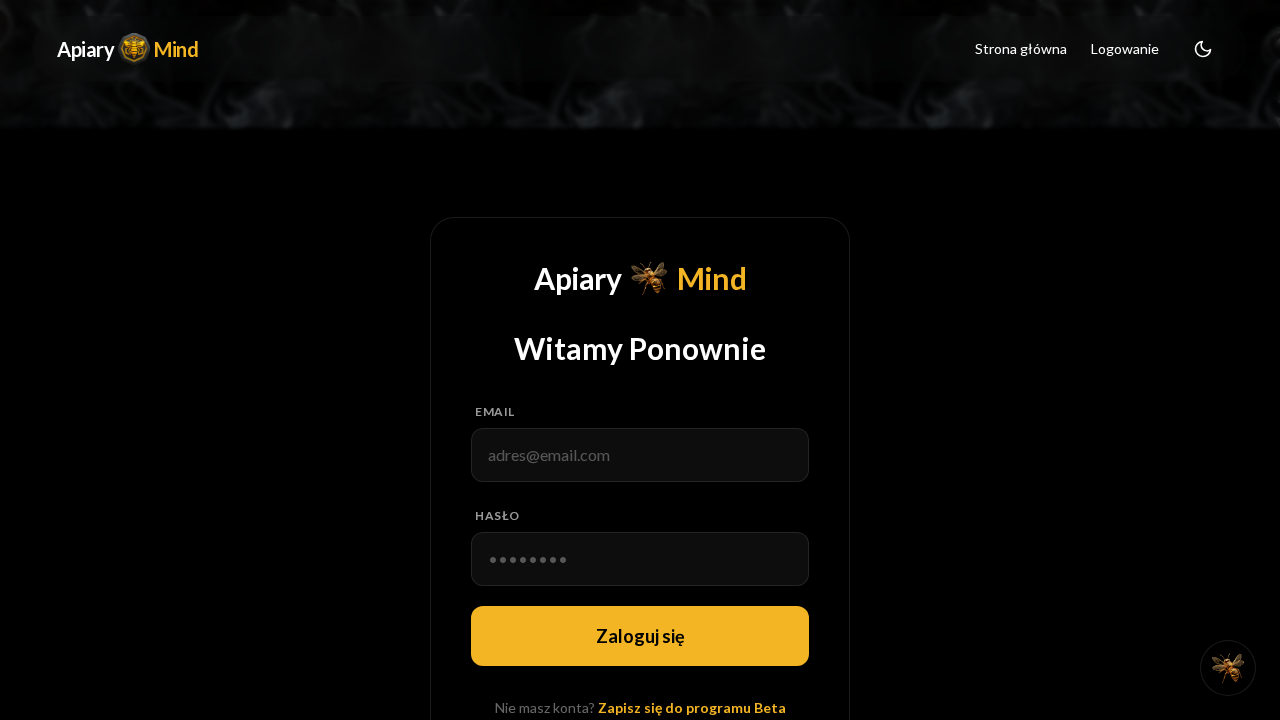
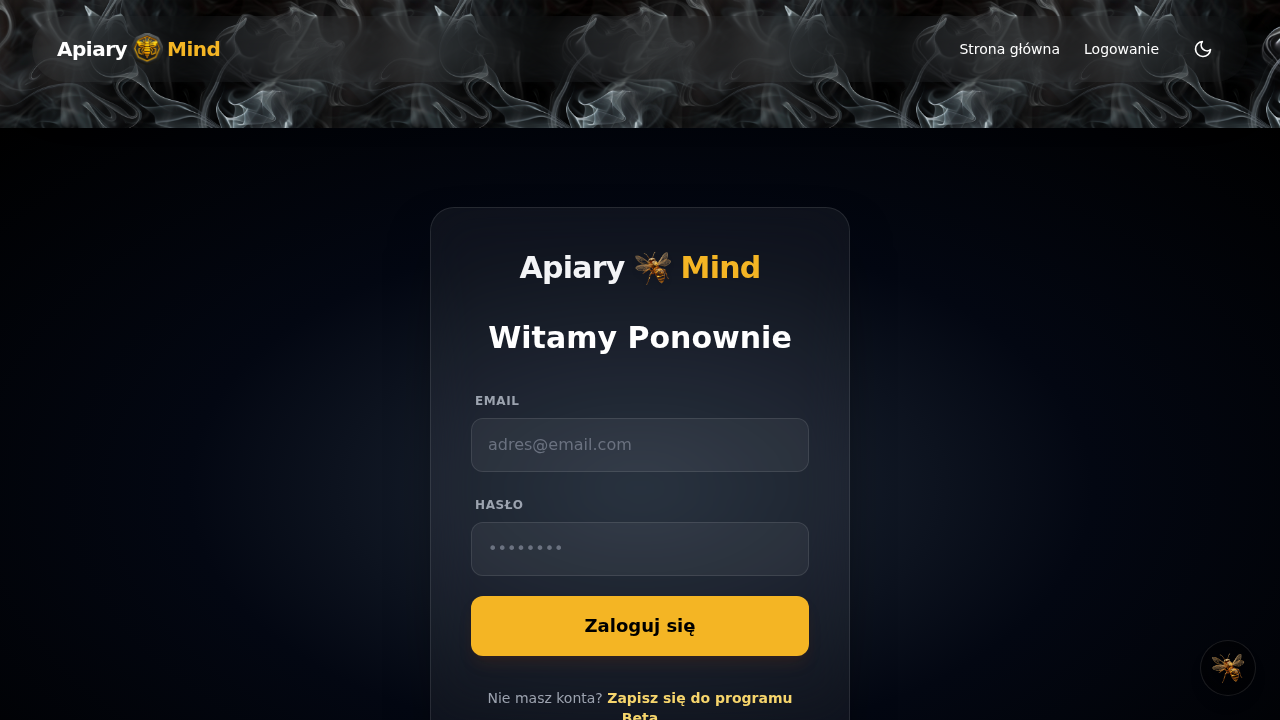
Fix Login Page Dark Mode visualization.
- Implemented CSS Radial Gradient for Dark Mode background ("Smoke/Fog" effect) instead of relying on a missing image.
- Updated Login Card to use correct glassmorphism styles (`dark:bg-white/5`, `backdrop-blur-xl`) and white borders (`dark:border-white/10`).
- Ensured all text and inputs are readable in Dark Mode (`text-gray-100`, `text-gray-400`).
- Kept the original Marble Texture for Light Mode.

diff --git a/app/login/page.tsx b/app/login/page.tsx
@@ -41,22 +41,27 @@ function LoginForm() {
   };
 
   return (
-    // TŁO: Marmur jako baza. W trybie dark dodajemy bg-black jako podkład pod overlay.
-    <div className="min-h-screen w-full flex items-center justify-center bg-[url('/assets/marble-texture.jpg')] bg-cover bg-center font-sans px-4 dark:bg-black">
+    // CONTAINER
+    // Light Mode: Marble texture background.
+    // Dark Mode: "Smoke/Fog" effect using Radial Gradient.
+    <div className="min-h-screen w-full flex items-center justify-center font-sans px-4
+                    bg-[url('/assets/marble-texture.jpg')] bg-cover bg-center
+                    dark:bg-[image:none] dark:bg-[radial-gradient(ellipse_at_center,_var(--tw-gradient-stops))] dark:from-gray-800 dark:via-gray-950 dark:to-black">
 
-      {/* OVERLAY: Jasny w Light Mode, Mocno przyciemniony w Dark Mode */}
-      <div className="absolute inset-0 bg-amber-50/30 dark:bg-black/70 backdrop-blur-[2px] transition-colors duration-500" />
+      {/* OVERLAY for Light Mode only (adds warmth to marble). Hidden in Dark Mode. */}
+      <div className="absolute inset-0 bg-amber-50/30 pointer-events-none dark:hidden" />
 
-      {/* KARTA: Białe szkło (Light) / Czarne szkło (Dark) */}
+      {/* KARTA */}
       <div className="relative w-full max-w-[420px]
-                      bg-white/80 dark:bg-black/60
-                      backdrop-blur-xl border border-white/40 dark:border-white/10
-                      shadow-2xl rounded-3xl p-8 md:p-10
+                      bg-white/80 backdrop-blur-xl border border-white/40 shadow-2xl rounded-3xl p-8 md:p-10
+
+                      dark:bg-white/5 dark:backdrop-blur-xl dark:border-white/10 dark:shadow-black/50
+
                       animate-in fade-in zoom-in-95 duration-300">
 
         {/* --- LOGO --- */}
         <div className="flex items-center justify-center gap-2 mb-8 select-none">
-            <span className="text-3xl font-bold text-amber-950 dark:text-white tracking-tight">Apiary</span>
+            <span className="text-3xl font-bold text-amber-950 dark:text-gray-100 tracking-tight">Apiary</span>
 
             <div className="w-10 h-10 relative drop-shadow-md">
                  <img src="/assets/beeAI-3d-icon.png" alt="Logo" className="w-full h-full object-contain" />
@@ -74,14 +79,15 @@ function LoginForm() {
         <form onSubmit={handleLogin} className="space-y-5">
 
           {error && (
-            <div className="p-3 rounded-xl bg-red-50 border border-red-100 text-red-600 text-sm flex items-center gap-2 dark:bg-red-900/20 dark:border-red-900/50 dark:text-red-400">
+            <div className="p-3 rounded-xl bg-red-50 border border-red-100 text-red-600 text-sm flex items-center gap-2
+                            dark:bg-red-900/20 dark:border-red-900/50 dark:text-red-300">
               <AlertCircle size={16} />
               {error}
             </div>
           )}
 
           <div className="space-y-1.5">
-            <label className="text-xs font-bold text-amber-900/60 dark:text-white/60 uppercase tracking-wider ml-1">Email</label>
+            <label className="text-xs font-bold text-amber-900/60 dark:text-gray-400 uppercase tracking-wider ml-1">Email</label>
             <input
               type="email"
               value={email}
@@ -90,13 +96,14 @@ function LoginForm() {
               className="w-full px-4 py-3.5 rounded-xl transition-all
                          bg-amber-50/50 border border-amber-100 text-amber-950 placeholder:text-amber-900/30
                          focus:outline-none focus:ring-2 focus:ring-amber-500/50 focus:border-amber-500
-                         dark:bg-white/5 dark:border-white/10 dark:text-white dark:placeholder:text-white/30"
+
+                         dark:bg-white/5 dark:border-white/10 dark:text-white dark:placeholder:text-gray-500 dark:focus:ring-amber-500/40"
               required
             />
           </div>
 
           <div className="space-y-1.5">
-            <label className="text-xs font-bold text-amber-900/60 dark:text-white/60 uppercase tracking-wider ml-1">Hasło</label>
+            <label className="text-xs font-bold text-amber-900/60 dark:text-gray-400 uppercase tracking-wider ml-1">Hasło</label>
             <input
               type="password"
               value={password}
@@ -105,7 +112,8 @@ function LoginForm() {
               className="w-full px-4 py-3.5 rounded-xl transition-all
                          bg-amber-50/50 border border-amber-100 text-amber-950 placeholder:text-amber-900/30
                          focus:outline-none focus:ring-2 focus:ring-amber-500/50 focus:border-amber-500
-                         dark:bg-white/5 dark:border-white/10 dark:text-white dark:placeholder:text-white/30"
+
+                         dark:bg-white/5 dark:border-white/10 dark:text-white dark:placeholder:text-gray-500 dark:focus:ring-amber-500/40"
               required
             />
           </div>
@@ -113,16 +121,17 @@ function LoginForm() {
           <button
             type="submit"
             disabled={isLoading}
-            className="w-full py-4 rounded-xl bg-amber-500 hover:bg-amber-400 text-black font-bold text-lg shadow-lg shadow-amber-500/20 active:scale-[0.98] transition-all flex items-center justify-center gap-2 mt-4"
+            className="w-full py-4 rounded-xl bg-amber-500 hover:bg-amber-400 text-black font-bold text-lg shadow-lg shadow-amber-500/20 active:scale-[0.98] transition-all flex items-center justify-center gap-2 mt-4
+                       dark:shadow-amber-900/20"
           >
             {isLoading ? <Loader2 className="animate-spin" /> : "Zaloguj się"}
           </button>
         </form>
 
         <div className="mt-8 text-center">
-          <p className="text-amber-900/60 dark:text-white/40 text-sm">
+          <p className="text-amber-900/60 dark:text-gray-400 text-sm">
             Nie masz konta?{" "}
-            <Link href="/beta" className="font-bold text-amber-600 hover:text-amber-500 dark:text-amber-500 dark:hover:text-amber-400 transition-colors">
+            <Link href="/beta" className="font-bold text-amber-600 hover:text-amber-500 dark:text-amber-400 dark:hover:text-amber-300 transition-colors">
               Zapisz się do programu Beta
             </Link>
           </p>
